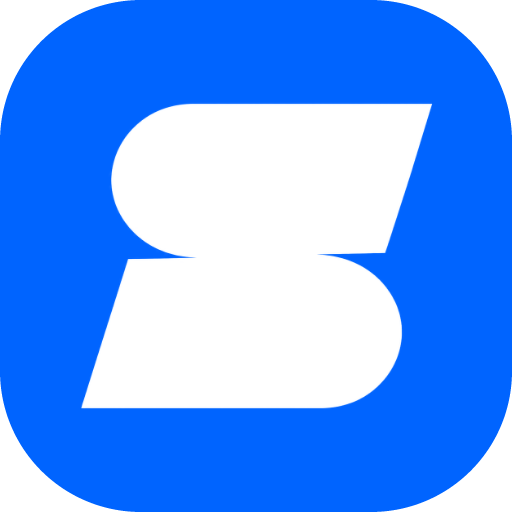
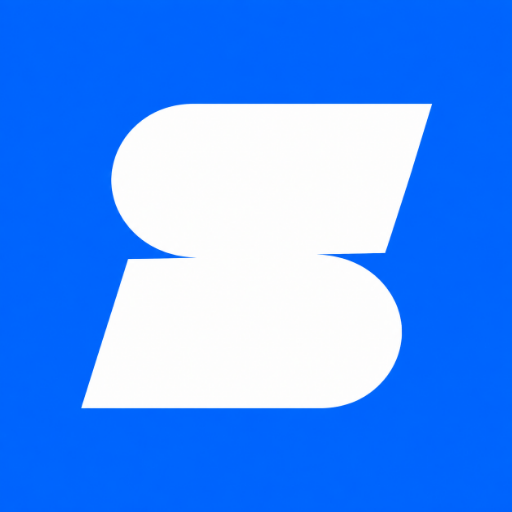
워크스페이스 누락 수정

diff --git a/src/features/auth/AuthPage.jsx b/src/features/auth/AuthPage.jsx
@@ -1,7 +1,7 @@
 import { useState } from 'react';
 import { motion } from 'framer-motion';
 import {
-  X, Building2, Users, GraduationCap, CheckCircle2, ShieldCheck, Sparkles, Eye, EyeOff,
+  X, Building2, Users, CheckCircle2, ShieldCheck, Sparkles, Eye, EyeOff,
   MailCheck, KeyRound,
 } from 'lucide-react';
 import useAuthStore from '../../store/useAuthStore';
@@ -9,6 +9,7 @@ import useAcademyStore from '../../store/useAcademyStore';
 import useWorkspaceStore from '../../store/useWorkspaceStore';
 import { updateMyProfileAccountType, updateMyProfileBasic } from '../../services/supabase/workspaceApi';
 import { formatPhoneNumber } from '../../utils/format';
+import SeenitLogo from '../../components/SeenitLogo';
 
 const ACCOUNT_TYPES = [
   {
@@ -298,9 +299,7 @@ export default function AuthPage({ onAuthSuccess, onCancel, initialMode = 'signI
       <header className="absolute inset-x-0 top-0 z-10">
         <div className="mx-auto flex h-14 max-w-6xl items-center px-4 md:h-16 md:px-6">
           <div className="flex items-center gap-2">
-            <span className="flex h-8 w-8 items-center justify-center rounded-xl bg-blue-600 text-white">
-              <GraduationCap size={18} />
-            </span>
+            <SeenitLogo className="h-8 w-8 rounded-[9px] shadow-sm ring-1 ring-black/5" />
             <span className="text-base font-black">씨닛</span>
           </div>
         </div>

diff --git a/src/features/landing/LandingPage.jsx b/src/features/landing/LandingPage.jsx
@@ -9,7 +9,6 @@ import {
   ChevronRight,
   Clock3,
   Download,
-  GraduationCap,
   MessageCircle,
   Monitor,
   MousePointerClick,
@@ -20,6 +19,7 @@ import {
   UserCheck,
   UsersRound,
 } from 'lucide-react';
+import SeenitLogo from '../../components/SeenitLogo';
 
 const ctaBase =
   'transition-all duration-300 ease-out hover:-translate-y-1 active:translate-y-0';
@@ -93,9 +93,7 @@ export default function LandingPage({ onSignIn, onSignUp }) {
       <header className="fixed inset-x-0 top-0 z-30 border-b border-gray-100/80 bg-white/90 backdrop-blur">
         <div className="mx-auto flex h-16 w-full max-w-6xl items-center justify-between px-5 md:px-6">
           <a href="#" className="flex items-center gap-2" aria-label="씨닛 홈">
-            <div className="flex h-8 w-8 items-center justify-center rounded-xl bg-blue-600 text-white">
-              <GraduationCap size={18} />
-            </div>
+            <SeenitLogo className="h-8 w-8 rounded-[9px] shadow-sm ring-1 ring-black/5" />
             <span className="text-base font-black tracking-normal">씨닛</span>
           </a>
           <nav className="hidden items-center gap-7 text-sm font-semibold text-gray-600 md:flex">

diff --git a/src/components/Sidebar.jsx b/src/components/Sidebar.jsx
@@ -14,6 +14,7 @@ import useAuthStore from '../store/useAuthStore';
 import useWorkspaceStore from '../store/useWorkspaceStore';
 import FeedbackModal from './FeedbackModal';
 import UpdateAnnouncementModal from './UpdateAnnouncementModal';
+import SeenitLogo from './SeenitLogo';
 
 const ROLE_LABEL = {
   tutor: '과외 선생님',
@@ -41,12 +42,7 @@ export default function Sidebar({ tabs, badges = {}, onTabSelect, activeTabIds =
         <div className="flex items-center justify-between gap-3 border-b border-seenit-border-soft px-5 py-5">
           <div className="flex min-w-0 items-center gap-3">
             <span className="h-10 w-10 shrink-0 overflow-hidden rounded-[11px] shadow-sm ring-1 ring-black/5 dark:ring-white/10">
-              <img
-                src="/icon-192.png"
-                alt=""
-                className="h-full w-full object-cover"
-                draggable="false"
-              />
+              <SeenitLogo className="h-full w-full" />
             </span>
             <div className="min-w-0">
               <p className="text-base font-bold text-seenit-ink">씨닛</p>

diff --git a/src/features/auth/StaffWaitingPage.jsx b/src/features/auth/StaffWaitingPage.jsx
@@ -15,6 +15,7 @@ import { Building2, Mail, Check, Loader2, RefreshCw, LogOut } from 'lucide-react
 import useAuthStore from '../../store/useAuthStore';
 import useWorkspaceStore from '../../store/useWorkspaceStore';
 import useAcademyStore from '../../store/useAcademyStore';
+import SeenitLogo from '../../components/SeenitLogo';
 
 const INVITE_ROLE_LABEL = {
   teacher: '기본', assistant: '기본', manager: '운영', pending: '미설정',
@@ -77,7 +78,7 @@ export default function StaffWaitingPage({ assignmentMembership = null }) {
     <div className="min-h-screen bg-gray-50 flex flex-col items-center px-6 pt-14">
       <div className="w-full max-w-sm">
         <div className="text-center mb-6">
-          <div className="text-4xl mb-3">📨</div>
+          <SeenitLogo className="mx-auto mb-3 h-12 w-12 rounded-[13px] shadow-sm ring-1 ring-black/5" />
           <h1 className="text-xl font-bold text-gray-900">
             {isRoleAssignmentPending ? '역할 배정 대기 중이에요' : '초대를 기다리고 있어요'}
           </h1>

diff --git a/src/features/auth/WorkspaceSelectionPage.jsx b/src/features/auth/WorkspaceSelectionPage.jsx
@@ -36,6 +36,7 @@ import TuitionRateFields from '../academy/onboarding/TuitionRateFields';
 import ClinicDefaultItemsEditor from '../academy/clinic/ClinicDefaultItemsEditor';
 import { localizeError } from '../../utils/localizeError';
 import useDeveloperStore from '../../store/useDeveloperStore';
+import SeenitLogo from '../../components/SeenitLogo';
 
 export const WORKSPACE_PICKED_KEY = 'workspace-picked';
 
@@ -284,7 +285,7 @@ export default function WorkspaceSelectionPage() {
     <div className="min-h-screen bg-gray-50 flex flex-col items-center px-6 pt-12 pb-10">
       <div className="w-full max-w-sm">
         <div className="text-center mb-6">
-          <div className="text-4xl mb-3">🏫</div>
+          <SeenitLogo className="mx-auto mb-3 h-12 w-12 rounded-[13px] shadow-sm ring-1 ring-black/5" />
           <h1 className="text-xl font-bold text-gray-900">
             {hasDeveloperAccess || isTutor ? '워크스페이스를 선택해주세요' : '학원을 선택해주세요'}
           </h1>

diff --git a/index.html b/index.html
@@ -4,14 +4,14 @@
     <meta charset="UTF-8" />
     <meta name="viewport" content="width=device-width, initial-scale=1.0, viewport-fit=cover" />
     <title>씨닛</title>
-    <link rel="icon" type="image/png" sizes="32x32" href="/favicon-32.png" />
+    <link rel="icon" type="image/png" sizes="192x192" href="/icon-192.png" />
     <link rel="manifest" href="/manifest.json" />
     <meta name="theme-color" content="#0064FF" />
     <meta name="mobile-web-app-capable" content="yes" />
     <meta name="apple-mobile-web-app-capable" content="yes" />
     <meta name="apple-mobile-web-app-status-bar-style" content="default" />
     <meta name="apple-mobile-web-app-title" content="씨닛" />
-    <link rel="apple-touch-icon" sizes="180x180" href="/apple-touch-icon.png" />
+    <link rel="apple-touch-icon" sizes="192x192" href="/icon-192.png" />
     <script>
       (() => {
         try {

diff --git a/src/features/auth/RoleSelectPage.jsx b/src/features/auth/RoleSelectPage.jsx
@@ -1,4 +1,5 @@
 import useAcademyStore from '../../store/useAcademyStore';
+import SeenitLogo from '../../components/SeenitLogo';
 
 const roles = [
   {
@@ -32,7 +33,7 @@ export default function RoleSelectPage() {
       <div className="w-full max-w-sm">
         {/* Logo */}
         <div className="text-center mb-10">
-          <div className="text-4xl mb-3">📝</div>
+          <SeenitLogo className="mx-auto mb-3 h-12 w-12 rounded-[13px] shadow-sm ring-1 ring-black/5" />
           <h1 className="text-2xl font-bold text-gray-900">씨닛</h1>
           <p className="text-sm text-gray-500 mt-2">어떤 역할로 시작할까요?</p>
         </div>

diff --git a/src/components/SeenitLogo.jsx b/src/components/SeenitLogo.jsx
@@ -1,0 +1,14 @@
+// 씨닛 공식 브랜드 마크.
+// 화면마다 임시 아이콘을 따로 두지 않고 docs/brand 와 동기화되는
+// public/icon-192.png 한 곳을 사용한다.
+export default function SeenitLogo({ className = '', alt = '', ...props }) {
+  return (
+    <img
+      src="/icon-192.png"
+      alt={alt}
+      className={`block shrink-0 object-cover ${className}`}
+      draggable="false"
+      {...props}
+    />
+  );
+}

diff --git a/AGENTS.md b/AGENTS.md
@@ -2,6 +2,11 @@
 
 These rules apply to every change in this repository, including work performed in later sessions or by delegated agents.
 
+## Brand assets
+
+- Use `src/components/SeenitLogo.jsx` for the 씨닛 brand mark in product UI. Do not substitute an emoji or a generic icon.
+- `docs/brand/icon-192.png.png` and `docs/brand/icon-512.png.png` are the source of truth. Keep the corresponding public PWA and maskable icons synchronized in the same change.
+
 ## Authorization and privacy
 
 - Treat Supabase RLS, grants, triggers, and security-definer RPC checks as the authorization source of truth. Hiding a button or tab is only defense in depth.
